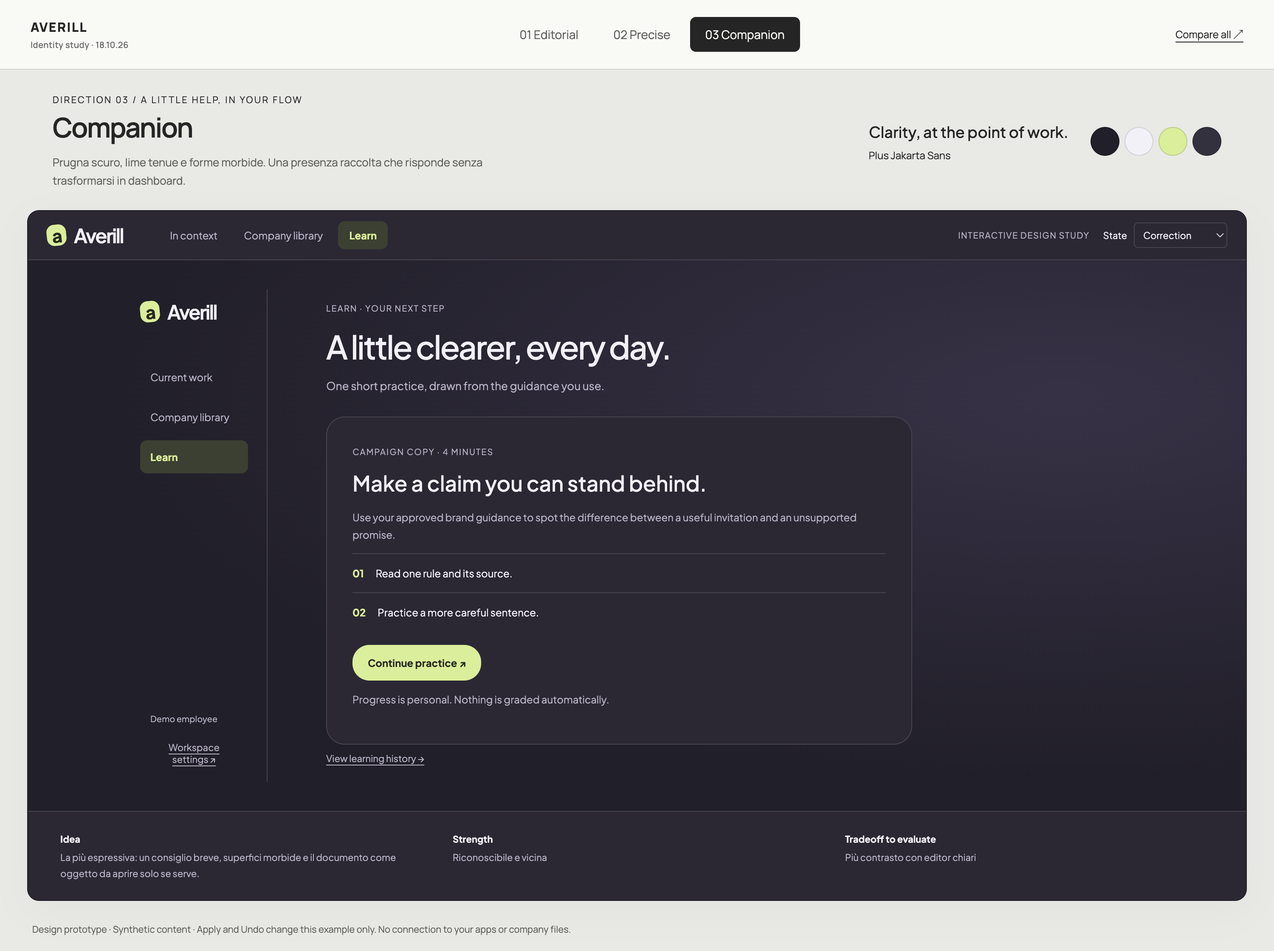
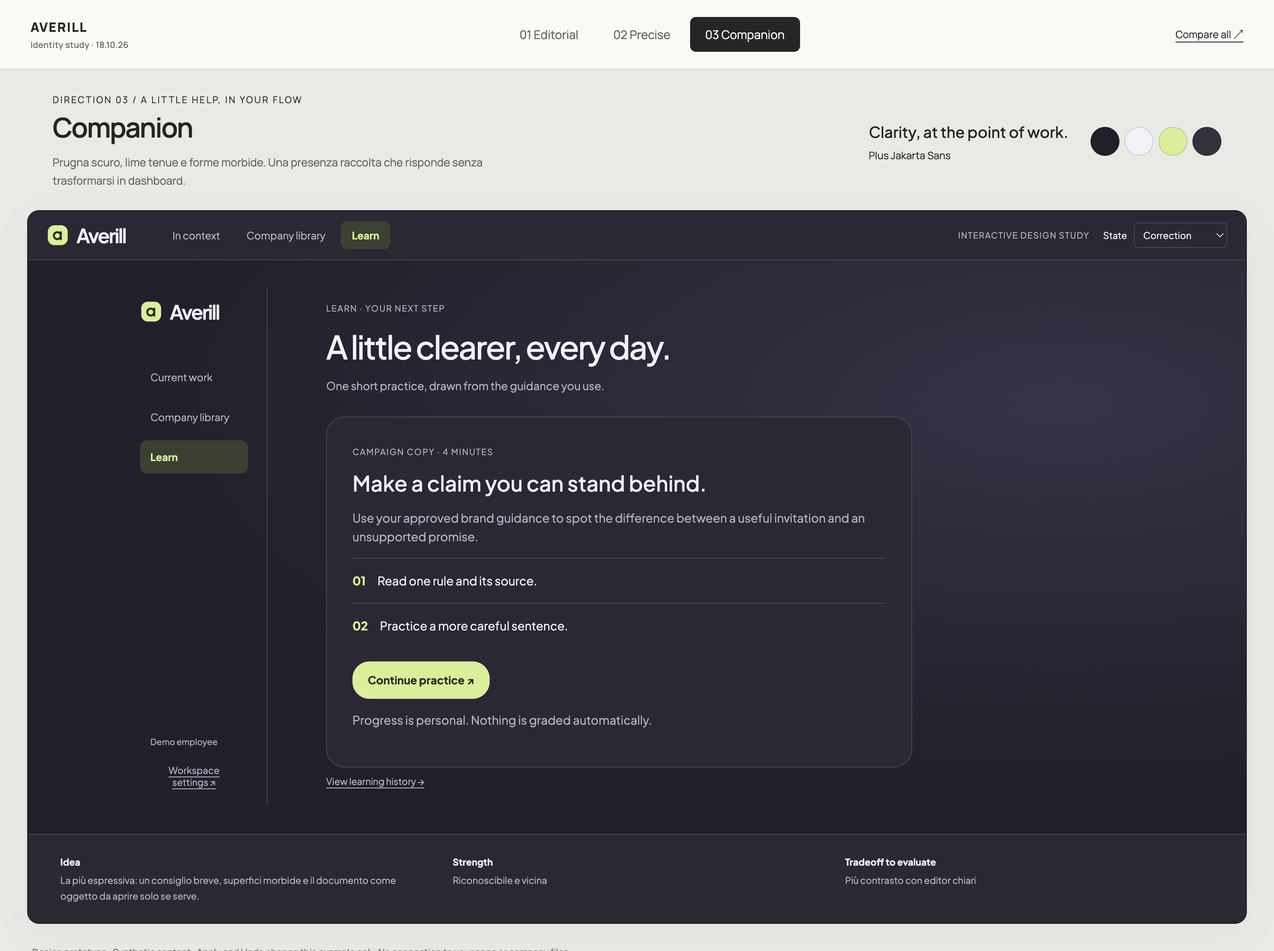
design: adopt selected Companion visual foundation

diff --git a/docs/design-explorations/2026-10-18-identity/review.js b/docs/design-explorations/2026-10-18-identity/review.js
@@ -3,9 +3,9 @@ const concepts={
  b:{name:'Precise',number:'02',tag:'A decision, clearly framed',description:'Grafite, grigio freddo e ruggine. Pannelli compatti, bordi netti e confronto delle modifiche in primo piano.',fonts:'Space Grotesk / IBM Plex Sans',colors:['#eef0f2','#20242c','#ad3614','#f8ede6'],benefit:'Scansione rapida e confronto netto',tradeoff:'Più operativa, meno accogliente',composition:'Contesto → esito → confronto → fonte',rationale:'Pensata per valutare più decisioni. Separa con nettezza il testo osservato dalla modifica proposta.'},
  c:{name:'Companion',number:'03',tag:'A little help, in your flow',description:'Prugna scuro, lime tenue e forme morbide. Una presenza raccolta che risponde senza trasformarsi in dashboard.',fonts:'Plus Jakarta Sans',colors:['#211f2a','#f3f1f8','#d6ef91','#35313f'],benefit:'Riconoscibile e vicina',tradeoff:'Più contrasto con editor chiari',composition:'Risposta → azione → prova espandibile',rationale:'La più espressiva: un consiglio breve, superfici morbide e il documento come oggetto da aprire solo se serve.'}
 };
-const params=new URLSearchParams(location.search);let current=params.get('direction')||'a';if(!concepts[current])current='a';let view=params.get('view')||'context',state=params.get('state')||'finding',expanded=false,sourceOpen=false,applied=false,dismissed=false,filter='';
+const params=new URLSearchParams(location.search);let current=params.get('direction')||'c';if(!concepts[current])current='c';let view=params.get('view')||'context',state=params.get('state')||'finding',expanded=false,sourceOpen=false,applied=false,dismissed=false,filter='';
 const isComparison=params.has('compare');
-const mark=key=>`<span class="mark" aria-hidden="true">${key==='a'?'a':key==='b'?'A':'a'}</span>`;
+const mark=key=>key==='c'?'<img class="brand-symbol" src="assets/companion-mark.svg" alt="" width="26" height="26">':`<span class="mark" aria-hidden="true">${key==='a'?'a':key==='b'?'A':'a'}</span>`;
 const wordmark=key=>`<div class="wordmark">${mark(key)}<span>Averill</span></div>`;
 const palette=key=>`<div class="palette" aria-label="Palette ${concepts[key].name}">${concepts[key].colors.map(c=>`<span class="swatch" style="--swatch:${c}" title="${c}"></span>`).join('')}</div>`;
 function source(){return `<button class="source-button" data-action="source" aria-expanded="${sourceOpen}"><span class="doc-icon" aria-hidden="true">≡</span><span>Brand & legal guidance<small>Approved · Version 2</small></span><span class="chevron" aria-hidden="true">${sourceOpen?'−':'↗'}</span></button>${sourceOpen?'<div class="source-quote">“Do not claim ‘lowest prices guaranteed’.”<br><br>Only approved claims may be used in campaign copy. <strong>Synthetic source for this design study.</strong></div>':''}`}
@@ -19,7 +19,7 @@ function card(key,{mini=false}={}){
  else if(applied)content='<div class="card-kicker">Change applied</div><h2>That claim is removed.</h2><div class="applied" role="status">Updated in your draft. Nothing was sent.</div><button class="primary" data-action="undo">Undo change <span>↶</span></button><button class="text-button" data-action="clear">Recheck selected text</button>';
  else if(state==='preview')content='<div class="card-kicker">Preview · One change</div><h2>A more careful claim.</h2><div class="diff"><div class="before"><small>Before</small>Explore winter city breaks — lowest prices guaranteed.</div><div class="after"><small>After</small>Explore winter city breaks.</div></div><button class="primary" data-action="apply">Apply change <span>↗</span></button><button class="text-button" data-action="reset">Back to suggestion</button>';
  else content=`<div class="card-kicker"><span class="count">1</span> ${key==='b'?'Claim needs attention':key==='c'?'One thing to adjust':'Suggested correction'}</div><h2>Remove the price guarantee.</h2><p>Your approved brand guidance doesn’t allow this claim. Keep the invitation; remove the promise.</p><div class="observed">“lowest prices guaranteed”</div><button class="primary" data-action="preview">Preview change <span aria-hidden="true">↗</span></button>${!mini?'<button class="text-button" data-action="expand">'+(expanded?'Collapse panel':'More detail in side panel')+'</button>':''}`;
- return `<section class="card" aria-label="Averill contextual suggestion"><header class="card-head">${wordmark(key)}<span class="sharing">${mini?'Email draft':'Shared field'}</span>${!mini?'<button class="icon-button" data-action="dismiss" aria-label="Dismiss suggestion">×</button>':''}</header><div class="card-main">${content}</div>${expanded&&!mini?'<div class="panel-extra"><div class="small-label">Why this matters</div><h3>A guarantee needs approved evidence.</h3><p>This source forbids the exact phrase in your selected text. Removing it keeps the rest of the invitation intact.</p><div class="small-label">What was checked</div><p>Selected email text · One approved rule<br>Recipients, schedule and design were not checked.</p></div>':''}<footer class="card-footer">${source()}<div class="card-bottom"><button class="text-button" data-action="deep-link">Open in Averill ↗</button><button class="stop" data-action="stop">Stop sharing</button></div></footer></section>`;
+ return `<section class="card" aria-label="Averill contextual suggestion"><header class="card-head">${wordmark(key)}<span class="sharing">${mini?'Email draft':'Shared field'}</span>${!mini?'<button class="icon-button" data-action="dismiss" aria-label="Dismiss suggestion">×</button>':''}</header><div class="card-main">${content}</div>${expanded&&!mini?'<div class="panel-extra"><div class="small-label">Why this matters</div><h3>A guarantee needs approved evidence.</h3><p>This source forbids the exact phrase in your selected text. Removing it keeps the rest of the invitation intact.</p><div class="small-label">What was checked</div><p>Selected email text · One approved rule<br>Recipients, schedule and design were not checked.</p></div>':''}<footer class="card-footer">${["no-source","error","checking","edited"].includes(state)?'<div class="source-quote">'+(state==="no-source"?"No approved source used.":state==="edited"?"Previous advice is no longer current.":"No completed review for this text.")+'</div>':source()}<div class="card-bottom"><button class="text-button" data-action="deep-link">Open in Averill ↗</button><button class="stop" data-action="stop">Stop sharing</button></div></footer></section>`;
 }
 function host(){return `<section class="host" aria-label="Synthetic email editor"><div class="host-bar">Email draft <span>Synthetic editor · Not Brevo</span></div><div class="host-meta">Subject &nbsp; Winter, a little closer.</div><article class="host-body"><h2>A new perspective on winter.</h2><p>Hi Alex,</p><p>There’s another side to the colder months.<br>Quiet streets. Long lunches. A city that feels like yours.</p><p id="draft-copy">${applied?'Explore winter city breaks.':'Explore winter city breaks — <mark>lowest prices guaranteed.</mark>'}<br>Discover Copenhagen, Vienna and Prague with us.</p><p>Find your next city break.<br>The Vamo team</p></article><footer class="host-foot"><button class="host-send" disabled>Send</button><span>Draft saved</span><button class="ask-trigger" data-action="ask">Ask Averill</button></footer></section>`}
 const documents=[['Brand & legal guidance','Marketing · Version 2','Approved'],['Winter Escapes 2027','Campaign brief · Version 2','Approved'],['LinkedIn campaign guidance','Marketing · Version 1','Approved']];
@@ -29,7 +29,7 @@ function library(){return `<div class="library-layout">${side()}<section class="
 function learn(){return `<div class="library-layout">${side()}<section class="library-main"><span class="small-label">Learn · Your next step</span><h1>A little clearer, every day.</h1><p>One short practice, drawn from the guidance you use.</p><article class="learn-card"><span class="small-label">Campaign copy · 4 minutes</span><h2>Make a claim you can stand behind.</h2><p>Use your approved brand guidance to spot the difference between a useful invitation and an unsupported promise.</p><div class="learn-step"><b>01</b><span>Read one rule and its source.</span></div><div class="learn-step"><b>02</b><span>Practice a more careful sentence.</span></div><button class="primary" data-action="lesson">Continue practice ↗</button><p id="learn-message" role="status">Progress is personal. Nothing is graded automatically.</p></article><button class="text-button" data-action="history">View learning history →</button></section></div>`}
 function render(){
  document.getElementById('directions').innerHTML=Object.keys(concepts).map(k=>`<button data-direction="${k}" aria-pressed="${!isComparison&&current===k}">${concepts[k].number} ${concepts[k].name}</button>`).join('');
- if(isComparison){document.getElementById('app').innerHTML=`<section class="comparison"><h1>Three ways to make the next step clear.</h1><p>Averill · Same correction, source and action. Three identity directions. Design study, not the current product.</p><div class="comparison-grid">${Object.keys(concepts).map(k=>`<article class="concept-tile ${k}"><div class="tile-label"><span>Direction ${concepts[k].number}</span><span>${k==='a'?'Recommended starting point':'Alternative'}</span></div><h2 class="tile-name">${concepts[k].name}</h2><p class="tile-description">${concepts[k].tag}<br>${concepts[k].composition}</p>${card(k,{mini:true})}<div class="mini-library"><h3>Company library</h3><div class="doc-row"><span class="doc-icon" aria-hidden="true">≡</span><div><h3>Brand & legal guidance</h3><p>Marketing · Version 2</p></div><span class="approved">Approved</span></div></div><div class="tile-foot"><span>${concepts[k].fonts}</span>${palette(k)}</div><a class="tile-link" href="?direction=${k}">Explore ${concepts[k].name} →</a></article>`).join('')}</div></section>`;return;}
+ if(isComparison){document.getElementById('app').innerHTML=`<section class="comparison"><h1>Three ways to make the next step clear.</h1><p>Averill · Same correction, source and action. Three identity directions. Design study, not the current product.</p><div class="comparison-grid">${Object.keys(concepts).map(k=>`<article class="concept-tile ${k}"><div class="tile-label"><span>Direction ${concepts[k].number}</span><span>${k==='c'?'Selected by owner':'Earlier alternative'}</span></div><h2 class="tile-name">${concepts[k].name}</h2><p class="tile-description">${concepts[k].tag}<br>${concepts[k].composition}</p>${card(k,{mini:true})}<div class="mini-library"><h3>Company library</h3><div class="doc-row"><span class="doc-icon" aria-hidden="true">≡</span><div><h3>Brand & legal guidance</h3><p>Marketing · Version 2</p></div><span class="approved">Approved</span></div></div><div class="tile-foot"><span>${concepts[k].fonts}</span>${palette(k)}</div><a class="tile-link" href="?direction=${k}">Explore ${concepts[k].name} →</a></article>`).join('')}</div></section>`;return;}
  const c=concepts[current];document.getElementById('app').innerHTML=`<section class="intro"><div><div class="eyebrow">Direction ${c.number} / ${c.tag}</div><h1>${c.name}</h1><p>${c.description}</p></div><div class="identity-spec"><div class="font-spec"><strong style="font-family:${current==='a'?'Newsreader':current==='b'?'Space':'Jakarta'}">Clarity, at the point of work.</strong>${c.fonts}</div>${palette(current)}</div></section><section class="workspace ${current} ${expanded?'panel':''}"><header class="preview-bar">${wordmark(current)}<nav class="view-tabs" aria-label="Preview surface">${[['context','In context'],['library','Company library'],['learn','Learn']].map(([v,l])=>`<button data-view="${v}" aria-selected="${view===v}">${l}</button>`).join('')}</nav><span class="prototype-tag">Interactive design study</span><label class="scenario">State <select id="state"><option value="finding">Correction</option><option value="preview">Preview edit</option><option value="checking">Checking</option><option value="clear">No conflict</option><option value="no-source">No source</option><option value="error">Error</option><option value="edited">Draft changed</option></select></label></header><div class="stage">${view==='library'?library():view==='learn'?learn():`<div class="context-layout">${host()}${dismissed?'<div class="empty-message" role="status">'+(state==='stopped'?'Sharing stopped.':'Suggestion dismissed.')+'<br><button class="text-button" data-action="ask">Ask Averill again</button></div>':card(current)}</div>`}</div><footer class="reason-strip"><div><b>Idea</b><p>${c.rationale}</p></div><div><b>Strength</b><p>${c.benefit}</p></div><div><b>Tradeoff to evaluate</b><p>${c.tradeoff}</p></div></footer></section><p class="review-note">Design prototype · Synthetic content · Apply and Undo change this example only. No connection to your apps or company files.</p>`;
  document.getElementById('state').value=state==='stopped'?'finding':state;
 }

diff --git a/docs/design-explorations/2026-10-18-identity/review.css b/docs/design-explorations/2026-10-18-identity/review.css
@@ -7,3 +7,7 @@
 .workspace :focus-visible,.concept-tile :focus-visible{outline-color:var(--accent)}.search{border-color:var(--muted)}
 button:focus,a:focus,input:focus,select:focus{outline:3px solid #4876de;outline-offset:4px}.workspace :focus,.concept-tile :focus{outline-color:var(--accent)}
 @media(max-width:760px){.context-layout>.card{order:-1}}
+/* Selected Companion foundation: readable compact UI, developed vector mark. */
+.c .brand-symbol{display:block;flex:none}.c .card h2{font-size:24px;line-height:31px;font-weight:600}.c .card p{font-size:14px;line-height:22px}.c .card-kicker{font-size:11px;letter-spacing:.055em}.c .observed,.c .diff div{font-size:13px;line-height:21px}.c .source-button{font-size:13px;line-height:20px}.c .source-button small,.c .source-quote{font-size:12px;line-height:19px}.c .primary{min-height:44px;font-size:13px}.c .icon-button{min-width:44px;min-height:44px}.c .card .text-button,.c .card .stop{font-size:12px;min-height:44px}.c .card-head{padding-left:20px;padding-right:12px}.c .card-main{padding-left:20px;padding-right:20px}.c .source-quote{padding:14px;background:var(--bg);border-radius:12px}.c .diff small{font-size:11px}.c .sharing{font-size:11px}.c .learn-card p,.c .learn-step{font-size:14px;line-height:22px}.c .doc-row p{font-size:12px}.c .doc-row h3{font-size:14px}
+/* Keep source and Stop reachable while expanded detail scrolls independently. */
+.c.panel .card{display:flex;flex-direction:column;max-height:680px}.c.panel .card-head,.c.panel .card-main,.c.panel .card-footer{flex:none}.c.panel .card-main{padding-top:16px;padding-bottom:12px}.c.panel .card p{margin-bottom:12px}.c.panel .observed{margin-bottom:12px}.c.panel .panel-extra{min-height:0;flex:1;overflow:auto}.c.panel .source-quote{max-height:88px;overflow:auto}.c.panel .card-footer{background:var(--surface)}

diff --git a/travel-desktop/design-system/companion/tokens.css b/travel-desktop/design-system/companion/tokens.css
@@ -1,0 +1,37 @@
+/* Companion: selected visual target, 18 Oct 2026. Not imported by runtime yet. */
+:root {
+  --av-canvas: #211f2a;
+  --av-surface: #2b2835;
+  --av-surface-raised: #35313f;
+  --av-surface-hover: #403a4c;
+  --av-text: #f3f1f8;
+  --av-text-secondary: #b8b2c6;
+  --av-border: #484351;
+  --av-control-border: #8e879b;
+  --av-accent: #d6ef91;
+  --av-accent-hover: #e2f6b4;
+  --av-on-accent: #242a1b;
+  --av-accent-soft: #3a4030;
+  --av-warning: #ffc794;
+  --av-warning-soft: #44362e;
+  --av-error: #ffb8bf;
+  --av-error-soft: #492e38;
+  --av-success: #d6ef91;
+  --av-success-soft: #363e2d;
+  --av-focus: #d6ef91;
+  --av-font: 'Plus Jakarta Sans', sans-serif;
+  --av-space-1: 4px;
+  --av-space-2: 8px;
+  --av-space-3: 12px;
+  --av-space-4: 16px;
+  --av-space-5: 20px;
+  --av-space-6: 24px;
+  --av-space-8: 32px;
+  --av-radius-card: 22px;
+  --av-radius-panel: 18px;
+  --av-radius-control: 12px;
+  --av-radius-pill: 999px;
+  --av-ease: cubic-bezier(.16, 1, .3, 1);
+  --av-duration-feedback: 140ms;
+  --av-duration-panel: 220ms;
+}

diff --git a/travel-desktop/design-system/companion/FOUNDATION.md b/travel-desktop/design-system/companion/FOUNDATION.md
@@ -1,0 +1,117 @@
+# Averill Companion — selected visual foundation
+
+**Owner selected direction 03 Companion on 18 October 2026.** This is the visual target for CX-04 and CX-08. The existing product still renders the legacy petrol/coral/ice identity until those implementation tickets land. This document and its scoped tokens supersede the old visual direction for new design work; they do not claim a runtime migration.
+
+## Identity
+
+A quiet companion, visibly separate from the tool and company it supports. Dark plum creates a contained, calm surface; pale lime identifies the next action. Round contours soften the utility without turning it into a chat toy. The employee's draft is the working surface; Averill makes one intervention at a time.
+
+- Product name and wordmark: **Averill**, set in locally bundled Plus Jakarta Sans 600 with tracking −0.045em. Keep the capital A; do not introduce a different product name.
+- Mark: the local [vector mark](mark.svg), a lowercase a drawn as a bowl and stem inside a lime rounded square. Use upright geometry for clarity at small size; no font dependency, sparkle or animated idle glow. This is the developed mark for this foundation, not a claim of trademark clearance.
+- Mark sizes: 24px in a contextual card, 28px in desktop navigation, 40px minimum in brand presentations. Allow at least one-quarter of the mark width as surrounding clear space. At 16px use the bowl/stem silhouette without additional strokes.
+- Wordmark and mark stay quiet; a large product logo must never precede the correction.
+- Averill's identity is independent from Vamo. No Vamo palette, Fraunces/DM Sans pairing, logo or navigation is reused.
+
+## Semantic color and type
+
+Use [tokens.css](tokens.css); avoid scattering new hex values through feature CSS. Sources use normal readable text, a document icon, approval status and version. Lime identifies action, selected navigation, keyboard focus or a labelled success, not every link. Warm peach means a finding needs attention. Pink-red is reserved for a labelled error. Do not equate a model suggestion with source approval.
+
+| Role | Token | Value |
+| --- | --- | --- |
+| Canvas / host-independent surround | `--av-canvas` | `#211F2A` |
+| Card / principal surface | `--av-surface` | `#2B2835` |
+| Source object / selected grouping | `--av-surface-raised` | `#35313F` |
+| Hover | `--av-surface-hover` | `#403A4C` |
+| Primary text | `--av-text` | `#F3F1F8` |
+| Supporting text | `--av-text-secondary` | `#B8B2C6` |
+| Decorative divider | `--av-border` | `#484351` |
+| Input/control boundary | `--av-control-border` | `#8E879B` |
+| Primary action / focus | `--av-accent` | `#D6EF91` |
+| Action text | `--av-on-accent` | `#242A1B` |
+| Finding text / surface | `--av-warning` / `--av-warning-soft` | `#FFC794` / `#44362E` |
+| Error text / surface | `--av-error` / `--av-error-soft` | `#FFB8BF` / `#492E38` |
+
+Only Plus Jakarta Sans is required for the selected identity. Its variable font and OFL license are already bundled in the design study. Runtime implementation must copy the licensed font into its normal bundled assets; never make a network font request.
+
+| Job | Size / line-height | Weight |
+| --- | --- | --- |
+| Card finding / preview title | 24px / 31px | 600 |
+| Desktop page title | 32px / 40px | 600 |
+| Section heading | 18px / 26px | 600 |
+| Advice, draft excerpt and source passage | 14px / 22px | 400 |
+| Button / source title | 13px / 20px | 600 |
+| Metadata and state label | 12px / 18px | 500 |
+| Wordmark | 23px / 29px | 600 |
+
+Long finding titles wrap naturally. Do not shrink them to fit one line. Avoid uppercase sentences; uppercase may appear only in short secondary state labels. Use at least 14px for actual advice and source passages even though the initial comparison study used smaller text to fit presentation boards.
+
+## Geometry and hierarchy
+
+Base spacing 4px; normal steps 8, 12, 16, 20, 24, 32px. A contextual card is normally 360px wide, within a 320–400px range, with 20px padding and 22px corners. It expands into a 400–440px in-page panel with 18px corners. Controls use 12px corners; the one primary action can use a full pill. Use a 44px minimum action hit area, including icon-only Close. Keep content readable on a 440px viewport without horizontal scrolling. At 200% zoom, dock rather than overlap the draft and its controls.
+
+Reading order: quiet context → correction title → short reason → exact observed text → primary action → cited source → secondary app link / Stop. One action is visually dominant. Stop stays labelled and available, even though it is not a second filled CTA. More findings use a count and a disclosure. The complete company document stays in Averill, with only minimum authorized citation text in the host page.
+
+## Component contract
+
+### Compact contextual card
+
+Header: small mark/wordmark, shared-field indicator and labelled Close. Main: one useful correction, short reason and observed phrase. Primary: Preview change. Footer: source title, approved version, in-page exact passage expansion; explicit Open in Averill; Stop sharing. Closing the card only dismisses it. Stop ends sharing and clears advice.
+
+### Expanded panel
+
+Same card hierarchy, with additional findings, Why this matters and What was checked sections behind explicit expansion. Details do not require opening the desktop app. Restore focus to the expansion control on close/Escape. Never cover Send/Publish or the selected passage; choose a different anchor/dock position when necessary.
+
+### Preview, applied state and Undo
+
+Preview: precise Before/After text and scope, then Apply change. Keep Back to suggestion secondary. After a verified write: Change applied, Nothing was sent, Undo and Recheck. Undo is visually prominent until used or invalidated. If the editor has changed, block restoration and explain the conflict; the design must never suggest that old advice is still safe to apply.
+
+### Source object
+
+One raised, rounded object with a consistent document icon, title, approval status, version and disclosure. Expansion shows the exact passage, not an invented summary. No source means a distinct insufficient-evidence state. Unknown, revoked and superseded sources cannot use approved wording.
+
+### Desktop app
+
+Quiet sidebar with Current work, Company library and Learn. Account, connections, research and administration are contextual or secondary destinations. Current work unifies sharing/capture, check, result and recheck. Library opens with search and approved sources; source/rule approvals live in a separate role-gated queue. Learn shows one next activity, with history and destructive controls secondary. Preserve all roles and authorization checks.
+
+## State inventory and copy
+
+| State | Leading copy | Available next action |
+| --- | --- | --- |
+| Disconnected | Connect Averill to this draft. | Guided connection; no raw token/JSON |
+| No field selected | Choose the text you want to review. | Select supported field |
+| Ready | Ready to check this text. | Ask Averill |
+| Checking | Checking your draft. | Stop; labelled waiting state |
+| Finding | Remove the price guarantee. | Preview change; source expansion |
+| Several findings | 3 suggestions for this draft. | First finding + expand remaining |
+| Preview | Review this change. | Apply change; Back |
+| Applying | Applying this change. | Pending action disabled; no duplicate write |
+| Applied | Change applied. Nothing was sent. | Undo; Recheck |
+| Undo completed | Previous text restored. | Recheck |
+| Draft changed | Ready for a fresh check. | Recheck; stale Apply unavailable |
+| Source changed | The company guidance changed. | Review against current source |
+| Edit / Undo conflict | Your draft changed after this suggestion. | Fresh review; explicit manual recovery |
+| No conflict | No conflicts found in checked text. | Check another selection; checked scope |
+| Insufficient evidence | No approved source yet. | Company library; no green all-clear |
+| Unsupported editor | This editor is not supported yet. | Explain supported path; no fake clean result |
+| Connection / provider error | The check could not finish. | Retry; local fallback where available |
+| AI consent needed | Review what will be sent to Nebius. | Confirm or cancel inside the page |
+| Stopped | Sharing stopped. | Start a new explicit sharing session |
+| Empty library | No approved documents yet. | Role-appropriate next action |
+| Empty search | No documents match that search. | Clear/search again |
+| Empty Learn | No practice ready yet. | Eligible next step; no invented progress |
+
+Error, checking, success and insufficient-evidence states have explicit labels and are not communicated by color alone. Disabled actions retain readable text and explain their prerequisite nearby. Source approval remains a human decision.
+
+## Interaction and accessibility
+
+Use semantic buttons, inputs, dialogs and labelled disclosures in the existing HTML/CSS/JavaScript stack. Keyboard order follows reading order; focus is a 3px lime outline with at least 3px separation. Announce review/apply/undo results with a polite live region without stealing focus. Escape collapses detail/panel and returns to its opener. Never trap focus in an in-page card that is not modal.
+
+Hover and immediate feedback use 140ms; panel reveal uses 220ms, the scoped ease token, opacity and a maximum 4px translate. No bounce, persistent pulse, gradient atmosphere or idle animation. Under reduced motion, remove transforms/spinner animation and retain text status. Never delay an actionable result for an entrance sequence.
+
+Calculated core Companion contrast from the study: primary text 12.86:1, secondary 7.01:1, primary action 11.68:1, observed phrase 7.64:1. New error/control pairs and all rendered small states need their own checks in implementation. A calculation is not full screen-reader or platform acceptance.
+
+## Scope and implementation handoff
+
+The owner selected the visual direction; the initial preview remains a synthetic design artifact. The refined typography, vector mark and complete state inventory here are the implementation foundation. CX-01 covers the design specification; runtime migration belongs to CX-04/CX-08. Browser contract, connection, safe write/Undo and real-platform adapters retain their own dependencies and acceptance. Do not close those tickets on the basis of these mockups.
+
+Read the [interactive study and visual evidence](../../../docs/design-explorations/2026-10-18-identity/README.md) alongside this specification. Retain the old petrol/coral documents as implementation history; new UI work targets Companion. No normal account, source approval, credential or Vamo asset is changed by adopting this specification.

diff --git a/docs/design-explorations/2026-10-18-identity/README.md b/docs/design-explorations/2026-10-18-identity/README.md
@@ -2,7 +2,7 @@
 
 18 October 2026 · CX-01 / [issue #24](https://github.com/sararr25/averill-ai/issues/24)
 
-**Status: exploration delivered; owner selection pending.** The current product, its approved design system and Vamo are unchanged. The owner's choice to rethink palette/type authorized these alternatives; it did not choose one of them.
+**Status: owner selected 03 Companion on 18 October 2026.** The [selected visual foundation](../../../travel-desktop/design-system/companion/FOUNDATION.md), semantic tokens and developed vector mark are now the target for new Averill UI work. The existing runtime still renders the old identity until its implementation tickets land. Vamo is unchanged. The alternatives remain as exploration history.
 
 Open [the interactive study](index.html) and use **Compare all** to see the alternatives side by side. Each direction includes a contextual card, expanded in-page panel, before/after preview, local Apply/Undo demonstration, company library and Learn. The state menu shows checking, no conflict, insufficient evidence, error and changed-draft states. All source/draft content is synthetic. No employee account, real document, provider, browser extension or platform is connected.
 
@@ -15,7 +15,7 @@ Open [the interactive study](index.html) and use **Compare all** to see the alte
 - Signature moment: original draft + a useful, cited suggestion + reversible change visible in the same working context.
 - Ambition: typography, information hierarchy and state craft, with a lightweight interface. No decorative scroll or cursor effects.
 - Fixed interaction: anchored compact card, expandable in-page panel, exact source, preview, explicit Apply, Undo and optional app opening. On a narrow viewport, the study docks the card before the synthetic editor rather than covering it.
-- Open decision: visual direction and final mark. The small marks shown are typographic concepts, not a finalized vector identity or a trademark search result.
+- Selected direction: Companion. Its developed local SVG mark and refined type/control sizes are recorded in the selected foundation. This is not a trademark clearance claim; alternative marks remain historical concepts.
 
 ## Compare the directions
 
@@ -29,13 +29,13 @@ Open [the interactive study](index.html) and use **Compare all** to see the alte
 | Tradeoff | Uses more space in review-heavy queues | More operational and less warm | Dark surface contrasts strongly with pale host editors |
 | Best next validation | Long finding titles and source reading at small width | Repeated review decisions and before/after scanning | Source legibility and unobtrusiveness in actual light editors |
 
-**Recommendation: develop Editorial first.** Its hierarchy fits the owner's reported problem: one correction, one action and then the source, with less competition from the application shell. This is a design judgment, not user research. Precise is the stronger alternative if review density becomes the main criterion. Companion is the most visibly distinctive if a dark assistant presence is preferred.
+**Historical recommendation before owner selection: develop Editorial first.** Its hierarchy fits the owner's reported problem: one correction, one action and then the source, with less competition from the application shell. This is a design judgment, not user research. Precise is the stronger alternative if review density becomes the main criterion. Companion is the most visibly distinctive if a dark assistant presence is preferred.
 
 The alternatives vary composition, density, type, shape, desktop navigation and source treatment as well as color. The underlying task is deliberately held constant for comparison.
 
 ## Candidate foundations
 
-The machine-readable [candidate tokens](candidate-tokens.json) are scoped to this study. Do not import them into the current product before selection.
+The machine-readable [candidate tokens](candidate-tokens.json) retain all three studies and record Companion as selected. Implementers must use the scoped selected foundation tokens; do not import the other candidates or change runtime CSS as part of this review artifact.
 
 | Role | Editorial | Precise | Companion |
 | --- | --- | --- | --- |
@@ -67,7 +67,7 @@ The [renderer receipt](previews/verification.json) records the local checks. Eac
 
 Calculated text contrast against the candidate flat surfaces is in [contrast.json](contrast.json): body 12.86–15.01:1, secondary 5.43–7.01:1, primary action 6.03–11.68:1 and observed-text treatment 5.29–7.64:1. These values verify those color pairs only; they do not establish complete accessibility or platform acceptance. No screen-reader study, frame profiling or real-editor geometry/obstruction test was performed.
 
-The earlier inspected product baseline was 4.25/10 in the audit. Subjective concept-stage visual assessment for this study is approximately **7/10**: hierarchy, typography and identity are intentional, but reaching the craft target still needs the owner's direction choice, a finalized mark, refined long-content/compact typography, full role-dependent states and real editor acceptance. These are not usability scores or a claim that a 10/10 product has shipped.
+The earlier inspected product baseline was 4.25/10 in the audit. Subjective concept-stage visual assessment for this study is approximately **7/10**: hierarchy, typography and identity are intentional, and the owner has since selected Companion. The selected foundation develops its vector mark, reading sizes and state inventory; reaching the craft target still needs runtime composition and real editor acceptance. These are not usability scores or a claim that a 10/10 product has shipped.
 
 ## Font provenance
 
@@ -81,6 +81,6 @@ Downloaded from the official [Google Fonts repository](https://github.com/google
 
 No external font or network request is made by the prototype.
 
-## Next increment after selection
+## Selected foundation and next increment
 
-Refine the chosen direction rather than regenerating all alternatives. Finalize the mark, complete the selected card/panel/desktop state specification, verify source and control semantics at real sizes, and only then promote selected tokens into the Averill visual source of truth. Keep CX-01 open until selection and the selected foundation specification are recorded. Subsequent runtime implementation belongs to CX-04/CX-08 and the remaining feature tickets.
+Companion is selected. Its developed vector mark, refined 14px reading text, 44px action targets, semantic colors, geometry, complete component/state inventory and implementation boundaries are recorded in the selected foundation. This study defaults to Companion. CX-01 design scope is complete; runtime work remains in CX-04/CX-08 and the remaining feature tickets. Do not regenerate the alternatives. Real-editor and full accessibility acceptance remain open.

diff --git a/docs/HANDOVER.md b/docs/HANDOVER.md
@@ -1,6 +1,10 @@
+# Companion identity selected — 18 October 2026
+
+The owner selected **03 Companion** (dark plum, pale lime, rounded contours, Plus Jakarta Sans). Start new visual work from [the selected foundation](../travel-desktop/design-system/companion/FOUNDATION.md): semantic tokens, developed SVG mark, refined reading/control sizes, card/panel/source/preview/Undo contracts, full state inventory and role-aware desktop hierarchy. The review prototype now defaults to Companion. CX-01 design scope is complete; CX-04/CX-08 runtime implementation and all real-platform acceptance remain separate. Current app CSS/behavior, accounts, sources and Vamo are untouched. Earlier exploration recommendations below are historical.
+
 # Identity exploration delivered — 18 October 2026
 
-CX-01 / issue #24 now has [three reviewable visual directions](design-explorations/2026-10-18-identity/README.md) and a local interactive prototype with comparison, contextual card/panel, preview/Apply/Undo example, company library, Learn and result states. Editorial (Newsreader/Manrope, paper/ink-blue), Precise (Space Grotesk/IBM Plex Sans, grey/graphite/rust), Companion (Plus Jakarta Sans, plum/lime). Recommendation: refine Editorial for calm in-editor assistance. **Owner selection is pending; do not adopt candidate tokens or close #24 yet.** Current runtime/design-system/Vamo are unchanged. Renderer and contrast receipts are in the exploration folder; real-platform and full accessibility acceptance are not claimed. Next: obtain direction choice from the concrete visuals, then refine that direction and finalize its foundation.
+CX-01 / issue #24 now has [three reviewable visual directions](design-explorations/2026-10-18-identity/README.md) and a local interactive prototype with comparison, contextual card/panel, preview/Apply/Undo example, company library, Learn and result states. Editorial (Newsreader/Manrope, paper/ink-blue), Precise (Space Grotesk/IBM Plex Sans, grey/graphite/rust), Companion (Plus Jakarta Sans, plum/lime). Recommendation: refine Editorial for calm in-editor assistance. **Update: the owner selected Companion; see the selected foundation above.** Current runtime/design-system/Vamo are unchanged. Renderer and contrast receipts are in the exploration folder; real-platform and full accessibility acceptance are not claimed. Next: obtain direction choice from the concrete visuals, then refine that direction and finalize its foundation.
 
 # Contextual UX redesign planning — 18 October 2026
 

diff --git a/AGENTS.md b/AGENTS.md
@@ -6,7 +6,7 @@ Read `docs/HANDOVER.md`, `PROJECT.md`, `ARCHITECTURE.md`, and `travel-desktop/de
 - Describe current behavior accurately: Vamo is an independent demo-company website, while Averill is the companion product. New desktop fixtures use Vamo; existing persisted workspaces may still use Elseweek. Employees create work in their existing tools. The four supplied Electron editors are hackathon fixtures; their structured field findings require explicit sharing. An explicitly selected external window can be read once or polled locally every six seconds through macOS Accessibility or visible-text OCR. The floating button opens Averill, shows status and stops observation; it does not itself read the screen. Do not claim arbitrary desktop surveillance, hidden-field or visual-geometry understanding, external app control, or verified platform integrations.
 - Preserve per-window Share and Stop sharing. Findings belong after field completion or selection and cite a real local source. The employee owns all edits and publication.
 - Keep brief v1 and `winter-square-old.svg`; they are intentional fixtures. Do not import Noveris tutor material or its old memory into this repository.
-- Use `travel-desktop/design-system/DESIGN_SYSTEM.md` and its `tokens.css` as the visual source of truth for Averill. Use `travel-site/design-system/DESIGN_SYSTEM.md` and its `tokens.css` for Vamo. Never cross-apply either brand. A preview is a review artifact, not proof that the running UI matches it.
+- Use `travel-desktop/design-system/DESIGN_SYSTEM.md` as the visual entry point. The owner selected `travel-desktop/design-system/companion/FOUNDATION.md` on 18 October 2026; its scoped tokens and vector mark are the target for new Averill UI work. The existing root `tokens.css` describes the legacy runtime until migration tickets land. Use `travel-site/design-system/DESIGN_SYSTEM.md` and its `tokens.css` for Vamo. Never cross-apply either brand. A preview is a review artifact, not proof that the running UI matches it.
 - Never commit `.env.local`, secrets, API keys, user data, or generated dependency folders. Use `.env.example` only for variable names.
 - Run `npm test` from `travel-desktop/` after changes to checks, sources, or IPC. State what was actually verified.
 

diff --git a/travel-desktop/design-system/DESIGN_SYSTEM.md b/travel-desktop/design-system/DESIGN_SYSTEM.md
@@ -1,4 +1,7 @@
-# Averill design system — v1
+# Averill design system — legacy runtime reference
+
+**18 October 2026: the owner selected [Companion](companion/FOUNDATION.md) as the new Averill identity.** New UI design and migration work must follow that foundation and its scoped tokens/mark. The v1 description below records the current petrol/coral implementation and is retained for migration. Its tokens remain loaded by the existing app until CX-04/CX-08 land; selecting the visual target does not itself migrate runtime CSS.
+
 
 **Status:** approved visual direction and design specification for Averill. The Review pane follows the reference hierarchy; setup, work controls, and web research live in separate tabs. The supplied work windows use the same palette and locally bundled fonts.
 

diff --git a/docs/CONTEXTUAL_UX_TICKETS_2026-10-18.md b/docs/CONTEXTUAL_UX_TICKETS_2026-10-18.md
@@ -4,6 +4,10 @@ Epic/specification: [#23](https://github.com/sararr25/averill-ai/issues/23).
 
 All thirteen tickets use `ready-for-agent`. Blocked tickets must wait for their dependencies. The label does not mean that a visual direction has already been selected or platform acceptance has passed.
 
+## Selected identity — 18 October 2026
+
+The owner selected **03 Companion**. CX-01 design deliverables are complete: [selected foundation](../travel-desktop/design-system/companion/FOUNDATION.md), semantic tokens, developed vector mark, refined prototype and state specification. Runtime migration in CX-04/CX-08 remains open; no real-platform acceptance is implied.
+
 ## Index
 
 | Key | Issue | Blocked by |
